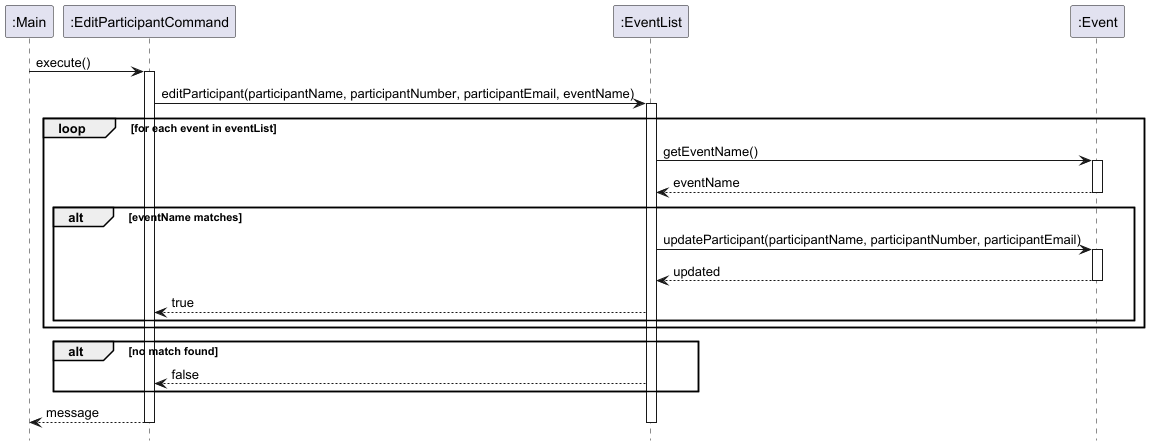
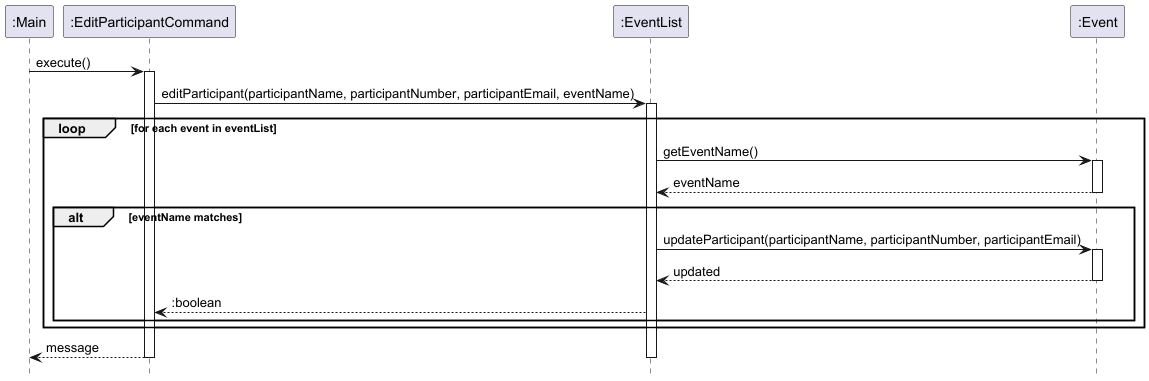
add some details

diff --git a/docs/DeveloperGuide.md b/docs/DeveloperGuide.md
@@ -363,9 +363,9 @@ The `edit` feature allows users to edit the information of an event, or the info
 This feature is implemented in the `EditEventCommand` `EditParticipantCommand` `EditItemCommand` classes, which extends the `Command` base class and utilises the flag to determine the edit content.
 
 The feature comprises three operations, namely:
-* `EditEventCommand#execute`, which edits the information of an event.
-* `EditParticipantCommand#execute`, which edits the information of a participant in an event.
-* `EditItemCommand#execute`, which edits the information of an item in an event.
+* `EditEventCommand#execute()`, which edits the information of an event.
+* `EditParticipantCommand#execute()`, which edits the information of a participant in an event.
+* `EditItemCommand#execute()`, which edits the information of an item in an event.
 
 The above three operations override the `Command#execute()` operation in `Command`,
 and is invoked when the latter operation is called.
@@ -374,20 +374,23 @@ and is invoked when the latter operation is called.
 
 Given below is an example usage scenario and the behaviour of the `edit` feature at each step:
 1. The user enters the command edit followed by a flag (-e/-p/-m) to edit the information of event/participant/item.
-2. If the flag is `-e`, `EditEventCommand` calls `EditEventCommand#execute`, which calls `EventList#editEvent` to edit the event.
-3. If the flag is `-e`, `EditParticipatCommand` calls `EditParticipatCommand#execute`, which calls `EventList#editParticipant` to edit the participant.
-4. If the flag is `-e`, `EditItemCommand` calls `EditItemCommand#execute`, which calls `EventList#editItem` to edit the item.
-5. After Editing, a success message `outputMessage` will be printed.
+2. If the flag is `-e`, `EditEventCommand` calls `EditEventCommand#execute()`, which calls `EventList#editEvent()` to edit the event. 
+   It looks for the event, modifies the information and returns true if the event exits. Otherwise, it returns false.
+3. If the flag is `-p`, `EditParticipantCommand` calls `EditParticipantCommand#execute()`, which calls `EventList#editParticipant()` to edit the participant.
+   It looks for the event and the specified participant, and then modifies the contact information and returns true if the participant is found. Otherwise, it returns false.
+4. If the flag is `-m`, `EditItemCommand` calls `EditItemCommand#execute()`, which calls `EventList#editItem()` to edit the item.
+   It looks for the event and the specified item, modifies the item and returns true if the item is found. Otherwise, it returns false.
+5. After Editing, a message `outputMessage` will be printed.
 
-The interactions between components of `EditEventCommand#execute` are shown in the **Sequence Diagram** below:
+The interactions between components of `EditEventCommand#execute()` are shown in the **Sequence Diagram** below:
 
 <img src="images/EditEventCommandSequenceDiagram.png">
 
-The interactions between components of `EditParticipantCommand#execute` are shown in the **Sequence Diagram** below:
+The interactions between components of `EditParticipantCommand#execute()` are shown in the **Sequence Diagram** below:
 
 <img src="images/EditParticipantCommandSequenceDiagram.png">
 
-The interactions between components of `EditItemCommand#execute` are shown in the **Sequence Diagram** below:
+The interactions between components of `EditItemCommand#execute()` are shown in the **Sequence Diagram** below:
 
 <img src="images/EditItemCommandSequenceDiagram.png">
 
@@ -397,16 +400,16 @@ The `mark/unmark` feature allows users to mark and unmark `Event`s in the `Event
 which extends `Command`, and three child classes, `MarkEventCommand`, `MarkParticipantCommand`, and `MarkItemCommand`.
 
 The feature comprises three operations, namely:
-* `MarkEventCommand#execute`, which marks an event as done or not done.
-* `MarkParticipantCommand#execute`, which marks a participant as present or absent.
-* `MarkItemCommand#execute`, which marks an item as accounted or unaccounted.
+* `MarkEventCommand#execute()`, which marks an event as done or not done.
+* `MarkParticipantCommand#execute()`, which marks a participant as present or absent.
+* `MarkItemCommand#execute()`, which marks an item as accounted or unaccounted.
 
 The above three operations override the `Command#execute()` operation in `Command`,
 and is invoked when the latter operation is called.
 
 #### Feature implementation
 
-Given below is an example usage scenario for `MarkEventCommand#execute`, and how it behaves at each step.
+Given below is an example usage scenario for `MarkEventCommand#execute()`, and how it behaves at each step.
 
 1. The user adds an event `Event 1` to the event list. The mark status for `Event 1` is initially `false` or not done, as shown in the **Object Diagram** below:
 
